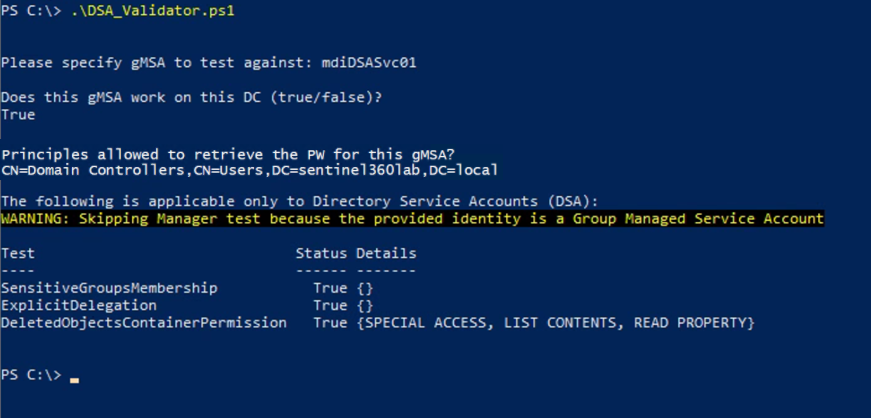
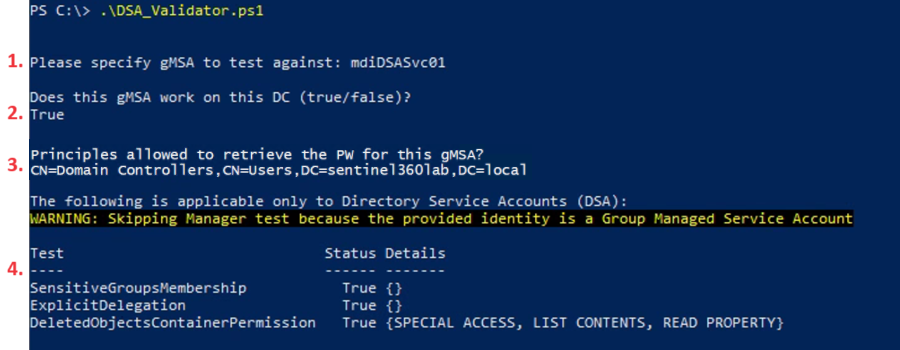
Last push today

Changed region(s): [[0.0, 0.0, 0.961, 1.0]]

diff --git a/_posts/Unraveling the Complexities of gMSA based DSA Accounts for Defender for Identity.md b/_posts/Unraveling the Complexities of gMSA based DSA Accounts for Defender for Identity.md
@@ -1,6 +1,20 @@
-# Unraveling the Complexities of Deploying Microsoft Defender for Identity Sensors and gMSA-based DSA Accounts
+# Introduction & Use Case:
+Leveraging Group Managed Service Accounts (gMSA) for use as the Domain Service Accounts (DSA) in your Defender for Identity deployments provides enhanced security and maximizes your coverage. In this blog post, we will breakdown and streamline gMSA account creation for use as a DSA for both large and small MDI deployments. 
 
-Deploying Microsoft Defender for Identity (MDI) sensors and leveraging a Group Managed Service Account (gMSA) for additional security to create a Domain Services Account (DSA) can often feel like navigating a labyrinth. These processes, critical to bolstering your organization's security infrastructure and getting the most coverage from MDI, come with their own set of challenges. Many of these issues are common and easily resolved. In this blog post, we will sidestep the most common obstacles and streamline your deployment process.
+<br/>
+<br/>
+
+# In this Post We Will: 
+
+- &#128073; Define Directory Service Accounts (DSA) 
+- &#128073; Understand the role of a DSA in an MDI deployment
+- &#128073; Learn why a gMSA is more secure than traditional accounts for use as DSA
+- &#128073; Discuss the implications between smaller versus larger, more complex multi-forest environments
+- &#128073; Create a gMSA for use as a gMSA 
+- &#128073; Grant the gMSA the required DSA permissions
+- &#128073; Valiate the gMSA for use as a DSA in MDI
+- &#128073; Register your new gMSA as a DSA in the MDI portal
+
 
 <br/>
 <br/>
@@ -61,11 +75,6 @@ For smaller, simpler setups (a handful of DC's), I wrote a PowerShell script is 
 
 ```powershell 
 
-# Author: Ian D. Hanley | LinkedIn: /in/ianhanley/ | Twitter: @IanDHanley
-# Github: https://github.com/EEN421
-# Website: www.hanleycloudsolutions.com
-# Blog: Hanley.cloud / DevSecOpsDad.com
-
 # Description: This script is helpful for simple deployments on a single domain. It creates a gMSA and grants it the required read privileges for use as a DSA in Defender for Identity
 
 # Step 1: Prompt the user for the domain and a name for the DSA that will be created in step 3.
@@ -100,11 +109,6 @@ The other, more advanced and scalable script is designed to facilitate custom se
 <br/>
 
 ```powershell
-
-# Author: Ian D. Hanley | LinkedIn: /in/ianhanley/ | Twitter: @IanDHanley
-# Github: https://github.com/EEN421
-# Website: www.hanleycloudsolutions.com
-# Blog: Hanley.cloud / DevSecOpsDad.com
 
 # Description: This script facilitates a custom setup for more advanced, multi-domain environments by allowing the user specify a HostGroup and DC's with the MDI sensor installed.
 # Note: In a multi-domain environment, it's best practice to leverage separate gMSA's per domain to act as DSA's for MDI.
@@ -156,11 +160,6 @@ To test the functionality of a Group Managed Service Account (gMSA) to be used a
 
 ```powershell
 
-# Author: Ian D. Hanley | LinkedIn: /in/ianhanley/ | Twitter: @IanDHanley
-# Github: https://github.com/EEN421
-# Website: www.hanleycloudsolutions.com
-# Blog: Hanley.cloud / DevSecOpsDad.com
-
 # Description: This script prompts for the gMSA used as the Directory Service Account (DSA) for your domain in Defender for Identity (MDI)
 
 # Install & import DFI module:
@@ -194,15 +193,38 @@ Here's what a successful run looks like for a gMSA that has the required permiss
 ![](/assets/img/MDI_DSA/Validator_Success.png)
 
 <br/>
+
+- **1.** First, the script prompts for the gMSA to validate.
+
 <br/>
 
-Here you can see that, after prompting for the gMSA to verify, the DC I ran the script from is allowed to use the gMSA.
+- **2.** Here you can see that, after prompting for the gMSA to verify, the DC I ran the script from is allowed to use the gMSA.
 
-Next you can see which principles are allowed to use the gMSA. Note that this DC is a member of the default domain controller group listed as a principle allowed to use the gMSA.
+<br/>
 
-Next it checks whether the gMSA has sufficient permissions to the objects it needs in your domain, such as Deleted Objects for example. 
+- **3.** Next you can see which principles are allowed to use the gMSA. Note that this DC is a member of the default domain controller group listed as a principle allowed to use the gMSA.
+
+<br/>
+
+- **4.** Finally, it checks whether the gMSA has sufficient permissions to the objects it needs in your domain, such as Deleted Objects for example. 
+
+<br/>
 
 > &#128073; Note: if you see **False** for any of these or your DCs/HostGroup isn't listed as a **PrincipalAllowedToRetrieveManagedPassword** as illustrated, then this gMSA is not ready to be used as a Directory Service Account (DSA) in the Defender for Identity portal.
+
+<br/>
+<br/>
+
+# In this Post We: 
+
+- &#128073; Defined Directory Service Accounts (DSA) 
+- &#128073; Understood the role of a DSA in an MDI deployment
+- &#128073; Learned why a gMSA is more secure than traditional accounts for use as DSA
+- &#128073; Discussed the implications between smaller versus larger, more complex multi-forest environments
+- &#128073; Created a gMSA for use as a gMSA 
+- &#128073; Granted the gMSA the required DSA permissions
+- &#128073; Valiated the gMSA for use as a DSA in MDI
+- &#128073; Register your new gMSA as a DSA in the MDI portal
 
 <br/>
 <br/>
